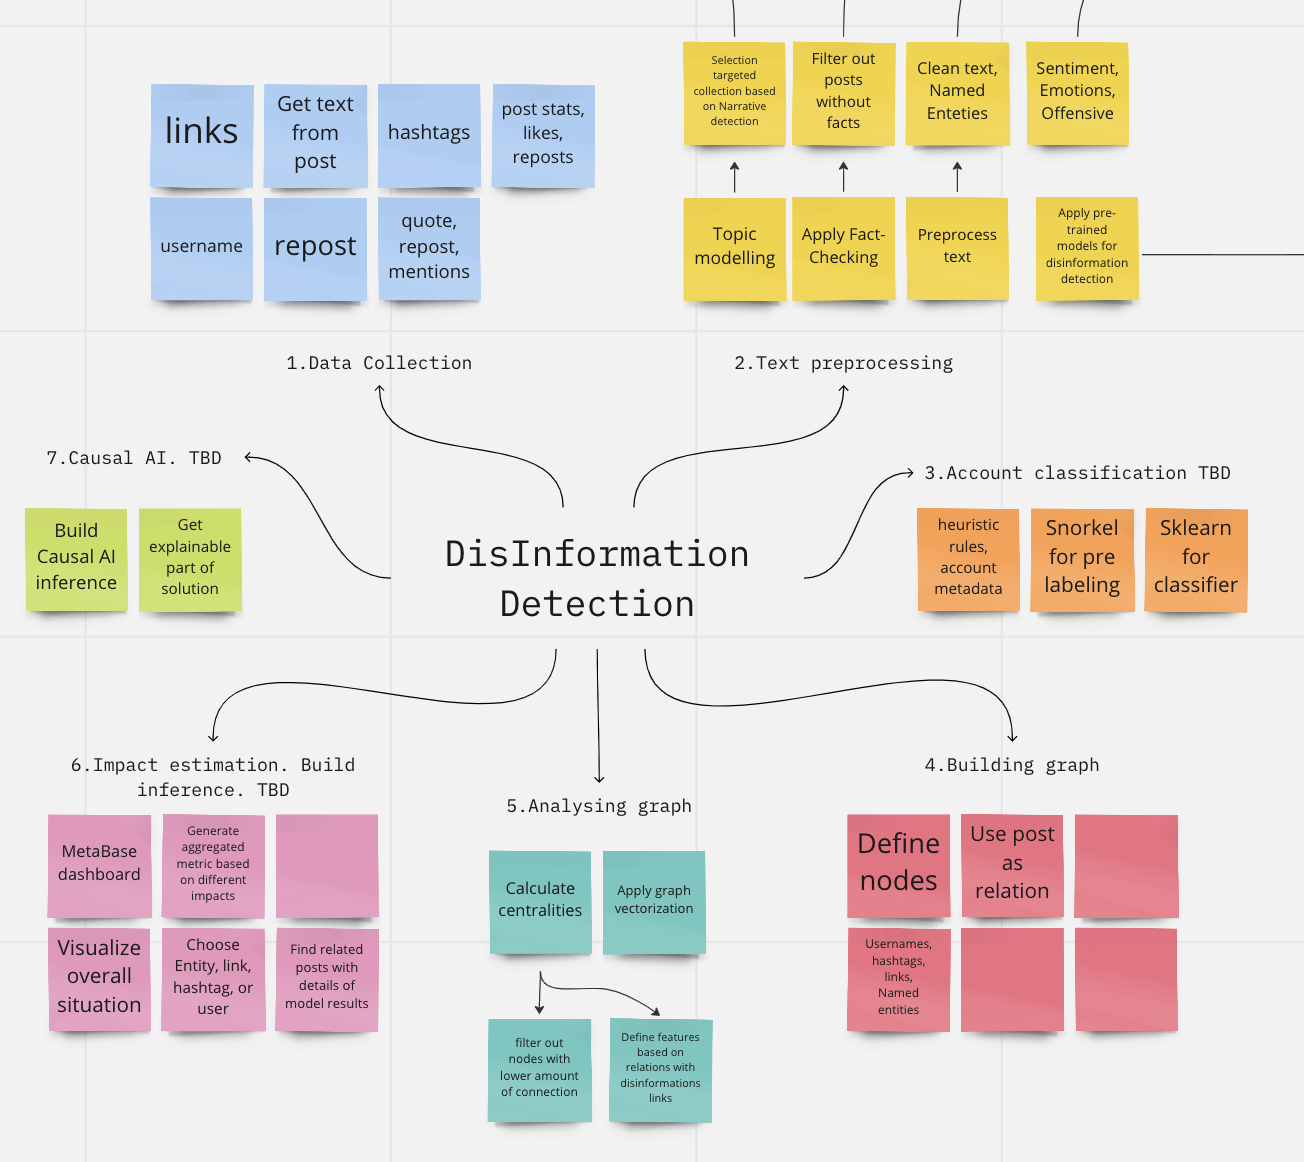
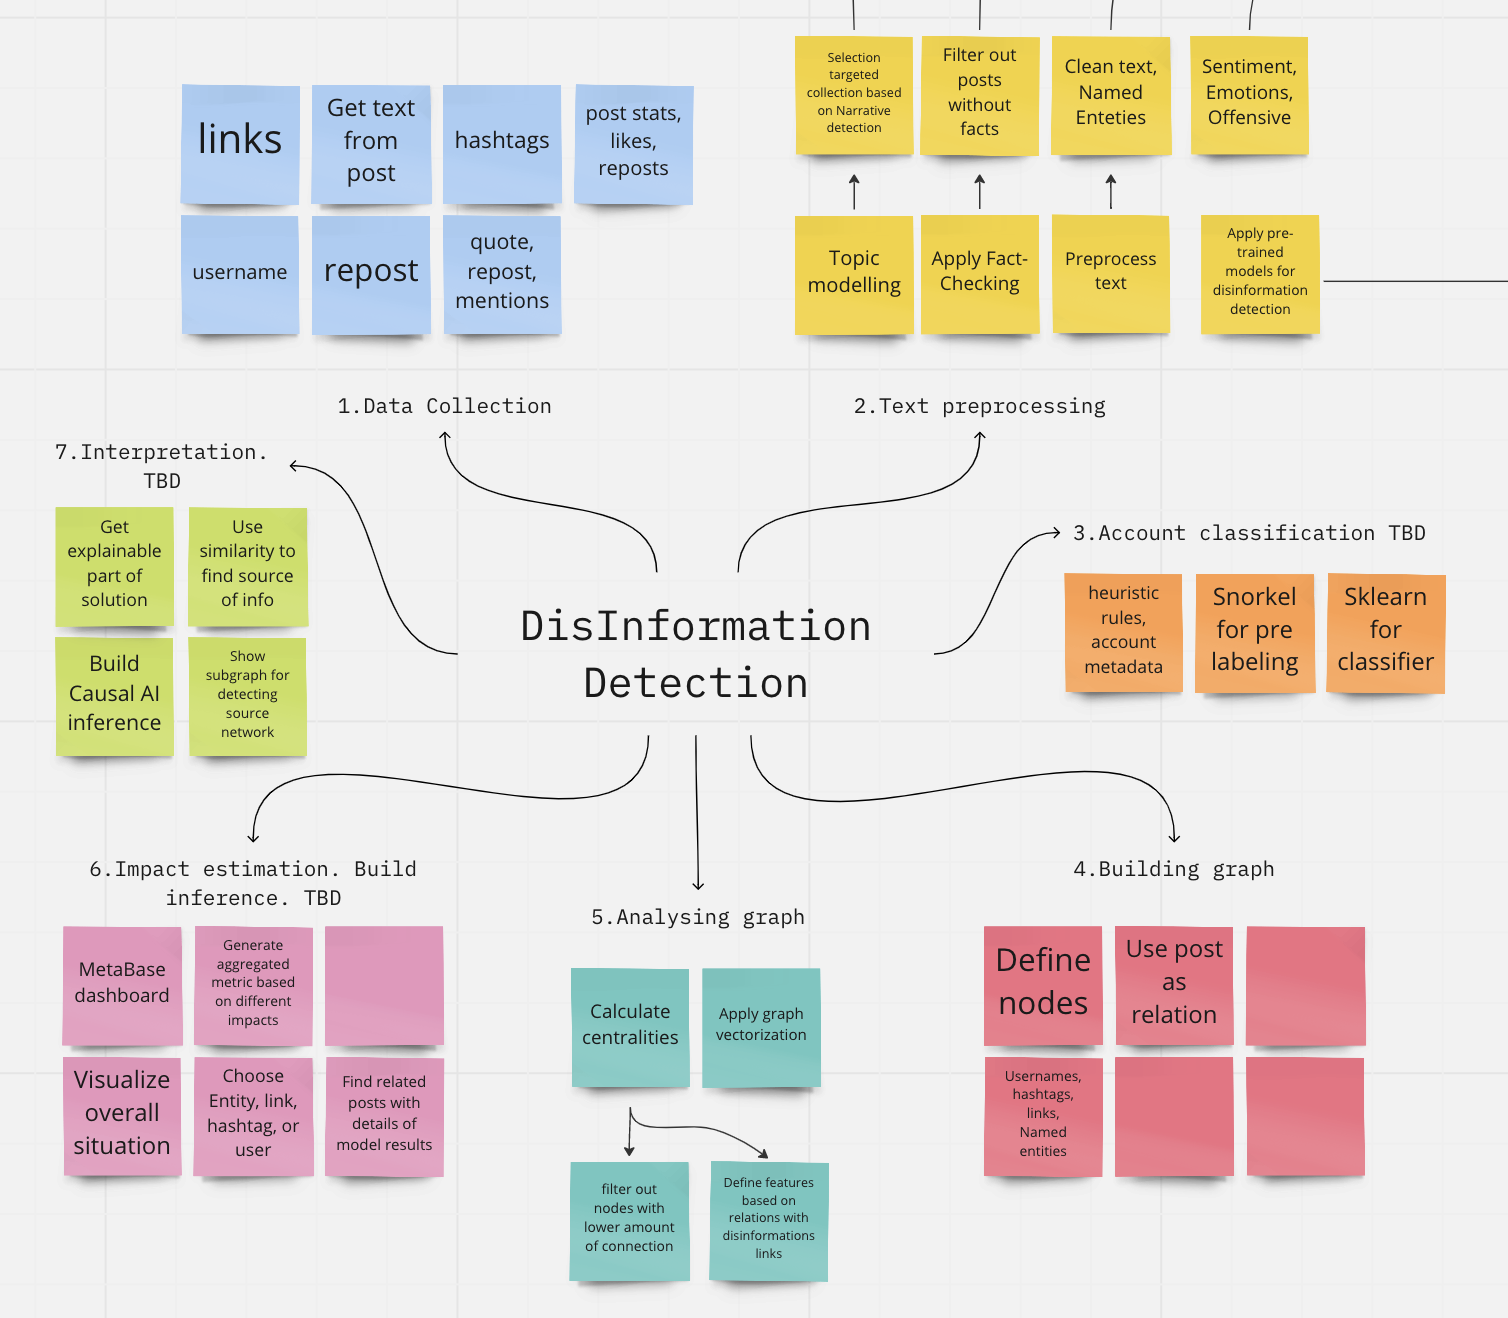
update general

diff --git a/README.md b/README.md
@@ -64,6 +64,13 @@ By combining these feature generation techniques with machine learning algorithm
 7. We create a PoC solution from scratch
 8. We need to add deployment for move to Minimum Viable Product (MVP), also we add ability to include information exchange with other systems
 
+
+## Visualization part
+1. Building BI dashbord with Metabase
+2. Show subgraph for detecting network of sources
+3. Get importance of features for finel model
+
+
 # Day 1
 
 ## Data collection
